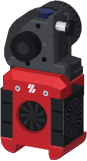
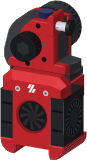
fix(toolhead): the Dragon Burner's Galileo 2 takes back its red printed plates (prestonbrown/helixscreen#2081)
The front plate, rear plate and tensioner arm are red again and the body dark, as in the v8
render and the G2SA STEP's own colours. Geometry is unchanged.

diff --git a/scripts/unit_art/heads/dragonburner.py b/scripts/unit_art/heads/dragonburner.py
@@ -8,9 +8,7 @@ import math
 
 from ..head import Drawing, HeadDef, rounded
 
-BODY, MOUNT, BLOWER, KNOB, DARK = "#b8242a", "#2f3034", "#232427", "#1a1b1e", "#101113"
-# The extruder is all dark, so it reads apart from the red cowl: its plates a shade lighter than its body.
-EXTRUDER_PLATE, EXTRUDER_BODY = "#45464b", "#333438"
+BODY, MOUNT, EXTRUDER, BLOWER, KNOB, DARK = "#b8242a", "#2f3034", "#3c3d42", "#232427", "#1a1b1e", "#101113"
 SCREW = "#c6c8cc"
 MM = 0.43 / 55.0
 
@@ -187,11 +185,11 @@ def _extruder(d):
         # The motor's laminations read as a lighter band round its middle.
         _axial_cylinder(d, ax, az, MOTOR_R + 0.3 * MM, 50.0 * MM, 58.0 * MM, "#3a3b40")
     _axial_cylinder(d, ax, az, RING_GEAR_R, *RING_GEAR_Y, "#232427")
-    d.solid(rounded(_mm(REAR_PLATE), 1.0 * MM), *REAR_PLATE_Y, EXTRUDER_PLATE)
-    d.solid(rounded(_mm(MAIN_BODY), 1.0 * MM), *MAIN_BODY_Y, EXTRUDER_BODY)
+    d.solid(rounded(_mm(REAR_PLATE), 1.0 * MM), *REAR_PLATE_Y, BODY)
+    d.solid(rounded(_mm(MAIN_BODY), 1.0 * MM), *MAIN_BODY_Y, EXTRUDER)
     d.collet(0.0, COLLET_Y, G2_TOP, color="#1c2452")
-    d.solid(rounded(_mm(FRONT_PLATE), 1.2 * MM), *FRONT_PLATE_Y, EXTRUDER_PLATE, bevel=0.8 * MM)
-    d.solid(rounded(_mm(TENSIONER_ARM), 0.8 * MM), 11.3 * MM, 28.8 * MM, EXTRUDER_PLATE, bevel=0.6 * MM)
+    d.solid(rounded(_mm(FRONT_PLATE), 1.2 * MM), *FRONT_PLATE_Y, BODY, bevel=0.8 * MM)
+    d.solid(rounded(_mm(TENSIONER_ARM), 0.8 * MM), 11.3 * MM, 28.8 * MM, BODY, bevel=0.6 * MM)
     # The tension spring and its thumb screw, lying across the top right.
     _cylinder_x(d, 18.3 * MM, 105.0 * MM, 3.4 * MM, 13.3 * MM, 23.0 * MM, "#b9bbc0", "#b9bbc0", n=10)
     _cylinder_x(d, 18.3 * MM, 105.0 * MM, 6.0 * MM, 23.0 * MM, 25.8 * MM, KNOB, "#25262a", n=18)
